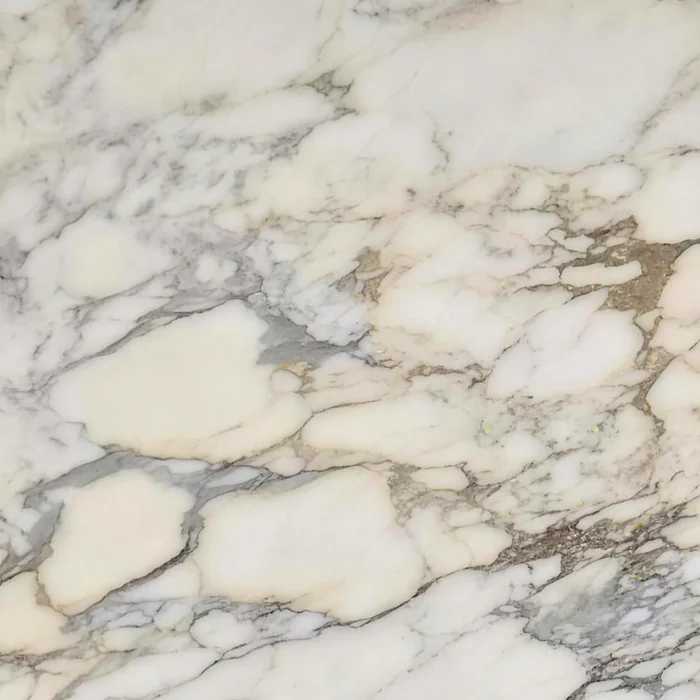
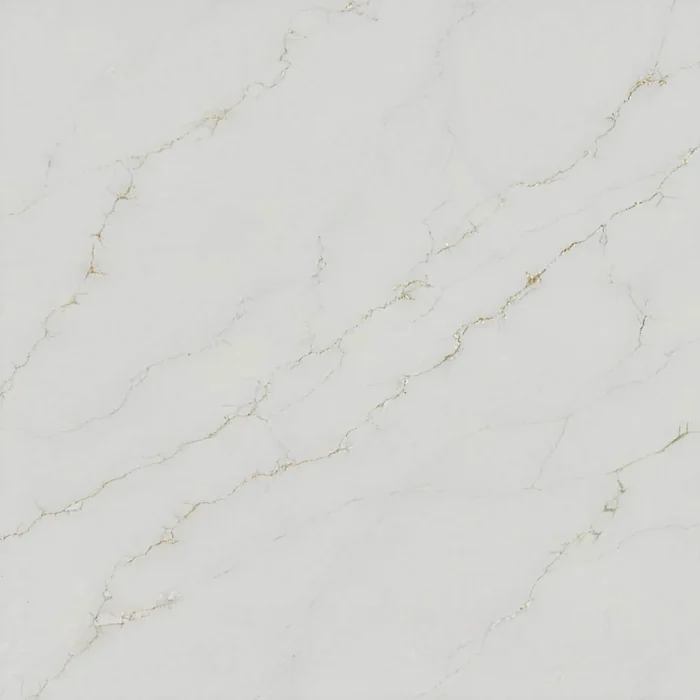
The plate stone is Calacatta Gold Soft, under a darker wash (D257)
Client sent a photograph of the slab he wanted and asked for a fuller, darker
gradient over it.

I had ruled Gold Soft out for being sd 3.6 - "so fine it reads as plain white
rather than as stone" - and that reasoning was wrong the moment the wash went
dark. A quiet stone is exactly what belongs under a heavy wash, because its
veining survives it and does not fight the lockup. Oro Honed at sd 23 would
have gone to mud at this depth.

Wash moves 0.22-0.36 to 0.44-0.64. The stone and the wash are one decision:
lighten the wash later and the stone has to be reconsidered with it.

Gold Soft is also the smallest of the three at 10KB.

diff --git a/Topcat-Worktops-main/Website Demo/assets/site.css b/Topcat-Worktops-main/Website Demo/assets/site.css
@@ -58,11 +58,13 @@
        slab) and it is BLUE, which no luminance figure was ever going to tell me. ⭐ **SO THE FILTER
        GAINED A COLOUR TERM: `blue − red` PER SLAB, AND ANYTHING WITH A BLUE CAST IS OUT.** Of 264
        files, 8 are pale, neutral-or-warm and calm enough. Calacatta Oro is mean **229**, sd **18**,
-       cast **−14.9** — white with warm gold veining, and it is the stone he named: *"you should
-       obviously be choosing the Calacatta Gold."* ⚠ **THERE ARE THREE CALACATTA GOLDS IN THE 132
-       AND ONLY ONE IS THE FLAGSHIP:** Gold Shimmer measures a **+11 blue cast**, which is the slab
-       he had just rejected in another guise, and Gold Soft is sd **3**, so fine it reads as plain
-       white rather than as stone. Oro Honed is the one whose page carries the name.
+       ⭐⭐⭐ **IT IS CALACATTA GOLD SOFT, AND HE PICKED IT BY SENDING A PHOTOGRAPH OF IT.** ⛔ I had
+       ruled it out for being sd **3.6** — "so fine it reads as plain white rather than as stone" —
+       and that reasoning was wrong the moment the wash went dark: **a quiet stone is exactly what
+       belongs under a heavy wash, because its veining survives and does not fight the lockup.**
+       Oro Honed (sd 23) was the previous pick and would have gone to mud at this depth.
+       ⚠ Gold Shimmer, the third of the three, measures a **+11 blue cast** — the fault he
+       rejected in another guise. Soft is lum **213**, sd **3.6**, cast **−2.7**, and 10KB.
        ⚠ **`Calacatta Gold` IS THE ONE STONE WITH AN OPEN LICENSING QUESTION (§7)** — it is already
        published as a stone page, so this adds no new exposure, but it is now on the landing page
        and in every project gallery. **Told him.**
@@ -71,7 +73,7 @@
        ⭐ The wash on top is a soft top-left lift and a bottom-right settle, which is what gives the
        recess shadows something to sit in; it is NOT a darkening veil. */
     --plateStone:
-      linear-gradient(158deg,rgba(16,16,21,0.22),rgba(16,16,21,0.29) 52%,rgba(16,16,21,0.36)),
+      linear-gradient(158deg,rgba(14,14,19,0.44),rgba(14,14,19,0.54) 52%,rgba(14,14,19,0.64)),
       url('/assets/site/plate-stone-700.webp') center/cover no-repeat;
     /* The same stone with gold in it, drawn tall and stretched to fill a multi-viewport
        backdrop (preserveAspectRatio="none"). Broad grey structure first, then fine grey
@@ -3556,11 +3558,14 @@
      attempt was a centred radial and the client rejected it on sight — on white marble a dark
      ellipse does not read as shade, it reads as **a stain on the stone**. A gradient that covers
      every edge equally reads as light falling across a slab, which is what he asked for.
-     ⛔⛔ **AND THE LEVEL WAS FOUND BY LOOKING, NOT BY ARITHMETIC — THREE WERE BUILT AND COMPARED.**
-     `0.10→0.20` leaves a beautiful white slab and the wordmark all but disappears; `0.34→0.58`
-     makes the gold crisp and is no longer a light block at all, which defeats the whole point of
-     going pale. **`0.22→0.36` is the one that holds both** — the veining still reads as Calacatta
-     Gold and "WORKTOPS", the finest thing in the lockup, still reads.
+     ⛔⛔ **THE LEVEL WAS FOUND BY LOOKING, NOT BY ARITHMETIC, AND THE CLIENT MOVED IT TWICE.**
+     `0.10→0.20` leaves a beautiful white slab and the wordmark all but disappears; `0.22→0.36`
+     held both on the busier Oro Honed slab; he then asked for *"a full gradient over it so that
+     the logo stands out even more. Make it darker"*, which is **`0.44→0.64`** and where it sits.
+     ⭐⭐ **IT WORKS AT THAT DEPTH BECAUSE THE STONE CHANGED WITH IT.** Gold Soft's veins are fine
+     enough to survive a heavy wash; Oro Honed's would have turned to mud under the same numbers.
+     ⛔ **SO THE TWO ARE ONE DECISION, NOT TWO** — if the wash is ever lightened, the stone has to
+     be reconsidered with it.
      ⛔ **DO NOT PUT THE SHADOWS BACK ON TOP OF THIS.** Two solutions to one problem is how this
      ended up with four filters, and the wash is the one that scales. */
   .proj-brand{break-inside:avoid;margin:0 0 14px;border-radius:14px;overflow:hidden;

diff --git a/Topcat-Worktops-main/Website Demo/index.html b/Topcat-Worktops-main/Website Demo/index.html
@@ -71,11 +71,13 @@
        slab) and it is BLUE, which no luminance figure was ever going to tell me. ⭐ **SO THE FILTER
        GAINED A COLOUR TERM: `blue − red` PER SLAB, AND ANYTHING WITH A BLUE CAST IS OUT.** Of 264
        files, 8 are pale, neutral-or-warm and calm enough. Calacatta Oro is mean **229**, sd **18**,
-       cast **−14.9** — white with warm gold veining, and it is the stone he named: *"you should
-       obviously be choosing the Calacatta Gold."* ⚠ **THERE ARE THREE CALACATTA GOLDS IN THE 132
-       AND ONLY ONE IS THE FLAGSHIP:** Gold Shimmer measures a **+11 blue cast**, which is the slab
-       he had just rejected in another guise, and Gold Soft is sd **3**, so fine it reads as plain
-       white rather than as stone. Oro Honed is the one whose page carries the name.
+       ⭐⭐⭐ **IT IS CALACATTA GOLD SOFT, AND HE PICKED IT BY SENDING A PHOTOGRAPH OF IT.** ⛔ I had
+       ruled it out for being sd **3.6** — "so fine it reads as plain white rather than as stone" —
+       and that reasoning was wrong the moment the wash went dark: **a quiet stone is exactly what
+       belongs under a heavy wash, because its veining survives and does not fight the lockup.**
+       Oro Honed (sd 23) was the previous pick and would have gone to mud at this depth.
+       ⚠ Gold Shimmer, the third of the three, measures a **+11 blue cast** — the fault he
+       rejected in another guise. Soft is lum **213**, sd **3.6**, cast **−2.7**, and 10KB.
        ⚠ **`Calacatta Gold` IS THE ONE STONE WITH AN OPEN LICENSING QUESTION (§7)** — it is already
        published as a stone page, so this adds no new exposure, but it is now on the landing page
        and in every project gallery. **Told him.**
@@ -84,7 +86,7 @@
        ⭐ The wash on top is a soft top-left lift and a bottom-right settle, which is what gives the
        recess shadows something to sit in; it is NOT a darkening veil. */
     --plateStone:
-      linear-gradient(158deg,rgba(16,16,21,0.22),rgba(16,16,21,0.29) 52%,rgba(16,16,21,0.36)),
+      linear-gradient(158deg,rgba(14,14,19,0.44),rgba(14,14,19,0.54) 52%,rgba(14,14,19,0.64)),
       url('/assets/site/plate-stone-700.webp') center/cover no-repeat;
     /* The same stone with gold in it, drawn tall and stretched to fill a multi-viewport
        backdrop (preserveAspectRatio="none"). Broad grey structure first, then fine grey
@@ -3569,11 +3571,14 @@
      attempt was a centred radial and the client rejected it on sight — on white marble a dark
      ellipse does not read as shade, it reads as **a stain on the stone**. A gradient that covers
      every edge equally reads as light falling across a slab, which is what he asked for.
-     ⛔⛔ **AND THE LEVEL WAS FOUND BY LOOKING, NOT BY ARITHMETIC — THREE WERE BUILT AND COMPARED.**
-     `0.10→0.20` leaves a beautiful white slab and the wordmark all but disappears; `0.34→0.58`
-     makes the gold crisp and is no longer a light block at all, which defeats the whole point of
-     going pale. **`0.22→0.36` is the one that holds both** — the veining still reads as Calacatta
-     Gold and "WORKTOPS", the finest thing in the lockup, still reads.
+     ⛔⛔ **THE LEVEL WAS FOUND BY LOOKING, NOT BY ARITHMETIC, AND THE CLIENT MOVED IT TWICE.**
+     `0.10→0.20` leaves a beautiful white slab and the wordmark all but disappears; `0.22→0.36`
+     held both on the busier Oro Honed slab; he then asked for *"a full gradient over it so that
+     the logo stands out even more. Make it darker"*, which is **`0.44→0.64`** and where it sits.
+     ⭐⭐ **IT WORKS AT THAT DEPTH BECAUSE THE STONE CHANGED WITH IT.** Gold Soft's veins are fine
+     enough to survive a heavy wash; Oro Honed's would have turned to mud under the same numbers.
+     ⛔ **SO THE TWO ARE ONE DECISION, NOT TWO** — if the wash is ever lightened, the stone has to
+     be reconsidered with it.
      ⛔ **DO NOT PUT THE SHADOWS BACK ON TOP OF THIS.** Two solutions to one problem is how this
      ended up with four filters, and the wash is the one that scales. */
   .proj-brand{break-inside:avoid;margin:0 0 14px;border-radius:14px;overflow:hidden;

diff --git a/Topcat-Worktops-main/Website Demo/about/index.html b/Topcat-Worktops-main/Website Demo/about/index.html
@@ -17,7 +17,7 @@
 <link rel="preconnect" href="https://fonts.googleapis.com">
 <link rel="preconnect" href="https://fonts.gstatic.com" crossorigin>
 <link href="https://fonts.googleapis.com/css2?family=Cinzel:wght@400;500;600;700&family=Montserrat:wght@200;300;400;500;600&display=swap" rel="stylesheet">
-<link rel="stylesheet" href="/assets/site.css?v=e8d5ecc4a0">
+<link rel="stylesheet" href="/assets/site.css?v=aa110b4533">
 <script type="application/ld+json">
 {
  "@context": "https://schema.org",

diff --git a/Topcat-Worktops-main/Website Demo/contact/index.html b/Topcat-Worktops-main/Website Demo/contact/index.html
@@ -17,7 +17,7 @@
 <link rel="preconnect" href="https://fonts.googleapis.com">
 <link rel="preconnect" href="https://fonts.gstatic.com" crossorigin>
 <link href="https://fonts.googleapis.com/css2?family=Cinzel:wght@400;500;600;700&family=Montserrat:wght@200;300;400;500;600&display=swap" rel="stylesheet">
-<link rel="stylesheet" href="/assets/site.css?v=e8d5ecc4a0">
+<link rel="stylesheet" href="/assets/site.css?v=aa110b4533">
 <script type="application/ld+json">
 {
  "@context": "https://schema.org",

diff --git a/Topcat-Worktops-main/Website Demo/estimate/index.html b/Topcat-Worktops-main/Website Demo/estimate/index.html
@@ -17,7 +17,7 @@
 <link rel="preconnect" href="https://fonts.googleapis.com">
 <link rel="preconnect" href="https://fonts.gstatic.com" crossorigin>
 <link href="https://fonts.googleapis.com/css2?family=Cinzel:wght@400;500;600;700&family=Montserrat:wght@200;300;400;500;600&display=swap" rel="stylesheet">
-<link rel="stylesheet" href="/assets/site.css?v=e8d5ecc4a0">
+<link rel="stylesheet" href="/assets/site.css?v=aa110b4533">
 <script type="application/ld+json">
 {
  "@context": "https://schema.org",

diff --git a/Topcat-Worktops-main/Website Demo/projects/index.html b/Topcat-Worktops-main/Website Demo/projects/index.html
@@ -17,7 +17,7 @@
 <link rel="preconnect" href="https://fonts.googleapis.com">
 <link rel="preconnect" href="https://fonts.gstatic.com" crossorigin>
 <link href="https://fonts.googleapis.com/css2?family=Cinzel:wght@400;500;600;700&family=Montserrat:wght@200;300;400;500;600&display=swap" rel="stylesheet">
-<link rel="stylesheet" href="/assets/site.css?v=e8d5ecc4a0">
+<link rel="stylesheet" href="/assets/site.css?v=aa110b4533">
 <script type="application/ld+json">
 {
  "@context": "https://schema.org",

diff --git a/Topcat-Worktops-main/Website Demo/services/index.html b/Topcat-Worktops-main/Website Demo/services/index.html
@@ -17,7 +17,7 @@
 <link rel="preconnect" href="https://fonts.googleapis.com">
 <link rel="preconnect" href="https://fonts.gstatic.com" crossorigin>
 <link href="https://fonts.googleapis.com/css2?family=Cinzel:wght@400;500;600;700&family=Montserrat:wght@200;300;400;500;600&display=swap" rel="stylesheet">
-<link rel="stylesheet" href="/assets/site.css?v=e8d5ecc4a0">
+<link rel="stylesheet" href="/assets/site.css?v=aa110b4533">
 <script type="application/ld+json">
 {
  "@context": "https://schema.org",

diff --git a/Topcat-Worktops-main/Website Demo/trade/index.html b/Topcat-Worktops-main/Website Demo/trade/index.html
@@ -17,7 +17,7 @@
 <link rel="preconnect" href="https://fonts.googleapis.com">
 <link rel="preconnect" href="https://fonts.gstatic.com" crossorigin>
 <link href="https://fonts.googleapis.com/css2?family=Cinzel:wght@400;500;600;700&family=Montserrat:wght@200;300;400;500;600&display=swap" rel="stylesheet">
-<link rel="stylesheet" href="/assets/site.css?v=e8d5ecc4a0">
+<link rel="stylesheet" href="/assets/site.css?v=aa110b4533">
 <script type="application/ld+json">
 {
  "@context": "https://schema.org",

diff --git a/Topcat-Worktops-main/HANDOVER.md b/Topcat-Worktops-main/HANDOVER.md
@@ -216,7 +216,7 @@ next session avoids re-proposing something already killed.
 | # | Date | Decision | Notes |
 |---|---|---|---|
 | D258 | 15 Aug | ⛔⛔⛔ **THE GALLERY PLATE PROVES IT FILLS A HOLE OR IT REMOVES ITSELF — NO COUNT FORMULA CAN DECIDE THIS.** Client: *"you can clearly see the Hornchurch project didn't need a logo because the collage was already full from the images. I'm saying only where there's a gap because of a lack of a single image, then you add the logo in. Don't just force it into every project."* ⭐⭐⭐ **HE IS RIGHT AND THE BUG WAS MINE FROM AN HOUR EARLIER** — D257 set `brand:true` on all eight projects on the assumption that the derived `(c − n mod c) mod c` would suppress the plate where it was not needed. **That formula assumes a uniform GRID and the gallery is `column-count:3`, which BALANCES.** Central London (13 photographs) and Hornchurch (7) both compute as "two slots short" and look nothing alike, because raggedness depends on the HEIGHTS of the pictures, not on how many there are. ⭐⭐ **SO IT IS MEASURED AFTER LAYOUT INSTEAD OF PREDICTED BEFORE IT:** group the tiles by `offsetLeft` to find the real columns, take each column's lowest edge, and the raggedness is the spread. Render both ways and keep the plate **only if it makes that spread smaller**. ⚠ `offsetTop`/`offsetHeight`, never rects — these tiles carry `.glow-card`. ⭐ **THE RESULT ACROSS ALL EIGHT, MEASURED:** Wimbledon **KEPT** (1px), Central London **KEPT** (15px), Harlow **KEPT** (1px); Watford, Rickmansworth, Ruislip and Harrow already level so none; **Hornchurch removes its own plate** — his example, and the plate there would have left 73px of new raggedness. | `brand:true` stays on all eight on purpose: the flag now means "offer a plate", and the measurement decides. Verified by opening all eight in turn at 1160 |
-| D257 | 15 Aug | ⭐⭐⭐ **THE PLATES ARE WHITE CALACATTA GOLD WITH AN EVEN DARK WASH, AND EVERY BLOCK IN THE ABOUT COLLAGE HAS A GOLD RIM.** Client, in three messages: *"put it on a white or gray stone. You can use any of the stones you suggest from the stone gallery and just add that with the golden rim around every block in the about us section"*, then *"don't use the fucking blue slab that makes it look like shit"*, then *"you should obviously be choosing the Calacatta Gold"*, then *"add a slight dark gradient onto the stones that the logo stands out without having to give it a shadow."* ⛔⛔ **THE FIRST STONE WAS CLOUD BURST AND IT WAS CHOSEN ON THE WRONG CRITERIA.** It measured best on luminance and calmness — and it is BLUE, which no brightness figure was ever going to reveal. ⭐ **THE FILTER GAINED A COLOUR TERM: `blue − red` PER SLAB.** Of 264 files, 8 are pale, neutral-or-warm and calm. ⚠ **THERE ARE THREE CALACATTA GOLDS AND ONLY ONE IS THE FLAGSHIP:** Gold Shimmer measures a **+11 blue cast** — the same fault in another guise — and Gold Soft is sd **3**, so fine it reads as plain white rather than as stone. **Oro Honed** is the one whose page carries the name: mean 199, sd 23, cast −15. ⭐ Cut to a 700px square rung of its own (39KB against the 222KB the stone pages serve) because no plate is ever wider than ~340px. ⛔⛔⛔ **THE DARK GRADIENT IS AN EVEN WASH ACROSS THE WHOLE SLAB, NEVER A POOL BEHIND THE MARK.** A centred radial was built first and rejected on sight: on white marble a dark ellipse does not read as shade, **it reads as a stain**. ⛔⛔ **AND THE LEVEL WAS FOUND BY BUILDING THREE AND LOOKING, AFTER I CALLED A BAD ONE FINISHED.** `0.10→0.20` leaves a beautiful slab and the wordmark vanishes; `0.34→0.58` makes the gold crisp and is no longer a light block, which defeats going pale at all; **`0.22→0.36` holds both.** ⭐⭐ **THE MARK NOW CARRIES `filter:none`** — the wash replaced a keyline and three recess shadows, which were four declarations doing a job the background should have done. ⭐ **THE GOLD RIM IS THE FULL 34% BORDER §2 RULE 10 ALLOWS**, on all six collage blocks; the banned thing is a bright band across the TOP, not a rim. | Verified at 1160: wash live at 0.22–0.36, mark `filter:none`, rendered ratio **1.0664** against intrinsic **1.0667**, all six rims `rgba(198,166,100,0.34)`, elements **2692**. ⚠ **`Calacatta Gold` IS THE ONE STONE WITH AN OPEN LICENSING QUESTION (§7)** — already published as a stone page, so no new exposure, but it is now on the landing page and in three project galleries. **Told him** |
+| D257 | 15 Aug | ⭐⭐⭐ **THE PLATES ARE WHITE CALACATTA GOLD WITH AN EVEN DARK WASH, AND EVERY BLOCK IN THE ABOUT COLLAGE HAS A GOLD RIM.** Client, in three messages: *"put it on a white or gray stone. You can use any of the stones you suggest from the stone gallery and just add that with the golden rim around every block in the about us section"*, then *"don't use the fucking blue slab that makes it look like shit"*, then *"you should obviously be choosing the Calacatta Gold"*, then *"add a slight dark gradient onto the stones that the logo stands out without having to give it a shadow."* ⛔⛔ **THE FIRST STONE WAS CLOUD BURST AND IT WAS CHOSEN ON THE WRONG CRITERIA.** It measured best on luminance and calmness — and it is BLUE, which no brightness figure was ever going to reveal. ⭐ **THE FILTER GAINED A COLOUR TERM: `blue − red` PER SLAB.** Of 264 files, 8 are pale, neutral-or-warm and calm. ⚠ **THERE ARE THREE CALACATTA GOLDS AND ONLY ONE IS THE FLAGSHIP:** Gold Shimmer measures a **+11 blue cast** — the same fault in another guise — and Gold Soft is sd **3**, so fine it reads as plain white rather than as stone. **Oro Honed** was picked first (mean 199, sd 23, cast −15) and **the client then sent a photograph of Calacatta Gold SOFT and said use that one.** ⛔ I had ruled Soft out for being sd **3.6**, "so fine it reads as plain white" — **and that reasoning was wrong the moment he also asked for a darker wash: a quiet stone is exactly what belongs under a heavy one, because its veining survives and does not fight the lockup.** Oro Honed would have gone to mud at this depth. Soft is lum 213, sd 3.6, cast −2.7, **10KB**. ⭐ Cut to a 700px square rung of its own (39KB against the 222KB the stone pages serve) because no plate is ever wider than ~340px. ⛔⛔⛔ **THE DARK GRADIENT IS AN EVEN WASH ACROSS THE WHOLE SLAB, NEVER A POOL BEHIND THE MARK.** A centred radial was built first and rejected on sight: on white marble a dark ellipse does not read as shade, **it reads as a stain**. ⛔⛔ **AND THE LEVEL WAS FOUND BY BUILDING THREE AND LOOKING, AFTER I CALLED A BAD ONE FINISHED.** `0.10→0.20` leaves a beautiful slab and the wordmark vanishes; `0.34→0.58` makes the gold crisp and is no longer a light block, which defeats going pale at all; `0.22→0.36` held both on Oro Honed — and he then asked for *"a full gradient over it so that the logo stands out even more. Make it darker"*, which is **`0.44→0.64`** and where it sits. ⛔ **THE STONE AND THE WASH ARE ONE DECISION:** lighten the wash later and the stone has to be reconsidered with it. ⭐⭐ **THE MARK NOW CARRIES `filter:none`** — the wash replaced a keyline and three recess shadows, which were four declarations doing a job the background should have done. ⭐ **THE GOLD RIM IS THE FULL 34% BORDER §2 RULE 10 ALLOWS**, on all six collage blocks; the banned thing is a bright band across the TOP, not a rim. | Verified at 1160: wash live at 0.22–0.36, mark `filter:none`, rendered ratio **1.0664** against intrinsic **1.0667**, all six rims `rgba(198,166,100,0.34)`, elements **2692**. ⚠ **`Calacatta Gold` IS THE ONE STONE WITH AN OPEN LICENSING QUESTION (§7)** — already published as a stone page, so no new exposure, but it is now on the landing page and in three project galleries. **Told him** |
 | D256 | 15 Aug | ⭐⭐⭐ **EVERY TOPCAT PLATE IS CUT STONE WITH THE MARK INLAID INTO IT, AND THE LOGO IS MUCH BIGGER.** Client: *"everywhere we were using a logo in the image like that, even in the gallery section or the project sections, especially now specifically talking about the about us section, make the logo inside that section bigger and add the stone slab thing design behind it instead of the just plain gray, or go ahead and cheaply generate a almost indent in the slab, but with the same gold colors. So the logo stays gold in that gradient, but it looks like it's actually in the slab."* ⭐⭐ **NOTHING WAS GENERATED AND NOTHING NEEDED TO BE** — he offered a cheap generation and the effect is two `drop-shadow`s over the site's existing slab. ⭐ **THE STONE IS `--marbleBG`, THE ONE SHARED SLAB** the nav glass, the CTA card and the page floor already use, so this adds no new material and no bytes. ⭐⭐ **THE GROUND OPENED FROM 0.92/0.96 TO 0.46/0.60 AND THAT WAS MEASURED, NOT EYEBALLED:** at the old alphas the veining varied by **10 levels** and was barely there; at 0.46/0.60 it varies by **17** — and the gold's contrast against the brightest part of the ground moves only **10.38 → 10.18:1**, so a slab that actually reads costs nothing in legibility. ⭐⭐ **THE INLAY IS LIGHTING, NOT ARTWORK (§2 rule 14 intact):** `drop-shadow` follows the file's own alpha, so a dark offset up-left is the stone edge falling into the recess and a warm one down-right is the lit lower lip. ⛔ **THE GROUND GRADIENT IS 158deg, SO THE LIGHT IS TOP-LEFT — FLIP ONE AND YOU MUST FLIP THE OTHER** or the recess pops back out as a bump. ⭐ Sizes: **68%** on the About plate (his emphasis), **58%** on the gallery plates, up from 46%. ⛔⛔ **`object-fit:contain` IS A RULE-14 GUARD, NOT DECORATION, AND IT ALREADY EARNED ITS PLACE:** the gallery plates take their aspect from whatever hole the masonry leaves, and on a 339x452 one the `max-width` clamp bit — **the BOX went to 0.9552 against the artwork's 1.0667**, and `contain` letterboxed instead of squashing. Measured the DRAWN artwork, not the box: **1.0667 exactly.** The clamp was then opened 74% → 84% so the mark reaches its intended 57.7% rather than 51.7%. ⭐⭐ **AND IT FIXED A MEASURED WEAKNESS FOR FREE:** the Why feature mark sat at **4.53:1** over the pale marble D247 put under it; the dark inlay offset takes it to **10.38:1**. | Verified at 1160: About plate mark **201.09 x 188.57**, rendered **1.0664** against intrinsic **1.0667**, height **67.6%**; Central London gallery plate drawn **278.1 x 260.7**, ratio **1.0667** exactly, height **57.7%**; stone present on both. `harvest/verify.py` **132/132/132 ✅** |
 | D255 | 15 Aug | ⛔⛔⛔ **THE BIG COLLAGE TILE IS A TOPCAT PLATE, AND THE QUARRY CAME STRAIGHT BACK OUT — NO AI IMAGERY IN THE ABOUT BLOCK.** Client, on the quarry: *"You cannot just add an AI query image in there. Just use a different project image or something. Just use something different… or even add the vertical topcat logo in there."* ⚠ **THE QUARRY WAS AN EXISTING ASSET, NOT A NEW GENERATION, BUT IT WAS STILL AI AND THAT WAS THE OBJECTION** — D254 lasted about ten minutes and the row is kept so nobody revives that file a third time. ⛔ **ALL 99 PROJECT PHOTOGRAPHS WERE LOOKED AT FIRST, AT THE TILE'S OWN SIZE, AND NONE EARNED IT:** the honest installation frames (`hornchurch-g2`, `g3`, `g4`) are building-site record shots — a slab on a trestle on a dusty floor, a step ladder in a bare room — and everything else is a fourth finished interior against w2, w3 and w4. **His own suggestion was the best answer on the table.** ⭐⭐ **IT IS THE SAME COMPONENT AS THE PROJECT PLATES (D240) AND THE WHY MARK (D245)** — same `topcat-vertical.svg`, same 158deg ground, same 46% height and 0.92 opacity — so the page's brand moments are one file and one treatment, not three lookalikes. ⛔⛔⛔ **THE SELECTOR CARRIES FOUR CLASSES AND THAT IS LOAD-BEARING:** `.about-collage>.ac-tile>img` is `position:absolute;inset:0` (0,2,1) and `.ac-tile img` is `width:100%;height:100%;object-fit:cover`, so a lone `.ac-mark` loses to both and **the lockup would have shipped stretched — the exact way D245 nearly shipped.** ⛔ Height only (§2 rule 14). ⭐⭐ **`picks[0]` IS `null`, NOT REMOVED:** the fill maps to `.ac-tile img` in DOM order, so shortening the array would slide w2, w3 and w4 up by one and silently re-shuffle the collage. ⚠ The veil is off on the plate — it is a bottom-up scrim written for photographs. | Verified at 1160 and 390 with **layout properties, not rects** — the tiles hinge in 3D and a rect mid-build reported the lockup at ratio 11.0 when it is 1.066 (D221/D230). Desktop: tile 282x279, mark 136.03x127.56, **rendered 1.0664 against the artwork's own 1.0667**, height **45.9%**, centred to within a pixel of the odd-pixel split. Phone: tile 220x219, mark 106x100, height **45.7%**. No overflow, no broken images |
 | D254 | 15 Aug | ⛔⛔ **THE QUARRY REPLACES THE GENERATED HANDSHAKE ON THE BIG COLLAGE TILE, AND IT REVIVES A FILE HE ONCE REJECTED.** Client: *"the shaking hands image that you're using in the about us section looks terrible. It just looks horrible. So add a different image that it may be something to do with a slab or some sort of installation or some sort of outside thing."* ⭐⭐⭐ **THE FIX WAS NOT A BETTER HANDSHAKE, IT WAS NOT A FOURTH INTERIOR** — w2 is a kitchen mid-fit, w3 a slab being carried, w4 a finished island, so every obvious candidate from the 107 project files was another room. **The quarry is cut blocks under open sky: two of his three suggestions in one frame, and the only thing in the library that changes the subject.** ⭐ It is also the brightest asset available, **198** against the tile's old **55**, which answers the *"two dark images"* complaint from the message before it — the four work tiles now read **198 / 115 / 71 / 124** instead of 55 / 115 / 71 / 115. ⛔⛔ **HE REJECTED THIS EXACT FILE IN D241 AND THE REASON DOES NOT CARRY OVER:** it was the Outdoor Spaces SERVICE tile, where a photograph of stone being cut out of the ground sat against copy promising barbecue runs and garden bars. Beside the About copy — sourcing the right stone, answering for the whole job — it is apt. ⚠ **HE WAS TOLD IT HAS A HISTORY**, and told about the one adjacency worth watching: the copy two lines away says *"we keep everything under one roof"*, and a quarry beside it must not be read as a claim to quarrying. The tile carries no caption and the alt says only what the picture is. ⭐ **ZERO CREDITS** — both rungs and the `SS` entry have been on disk since D109 and unreferenced since D241, kept on purpose for exactly this. ⚠ `about-handshake` is now superseded after one round; both rungs and the master stay on disk. | Verified at 1160 on a fresh load: w1 serving `quarry-955.webp`, elements **2692**, no broken images |
